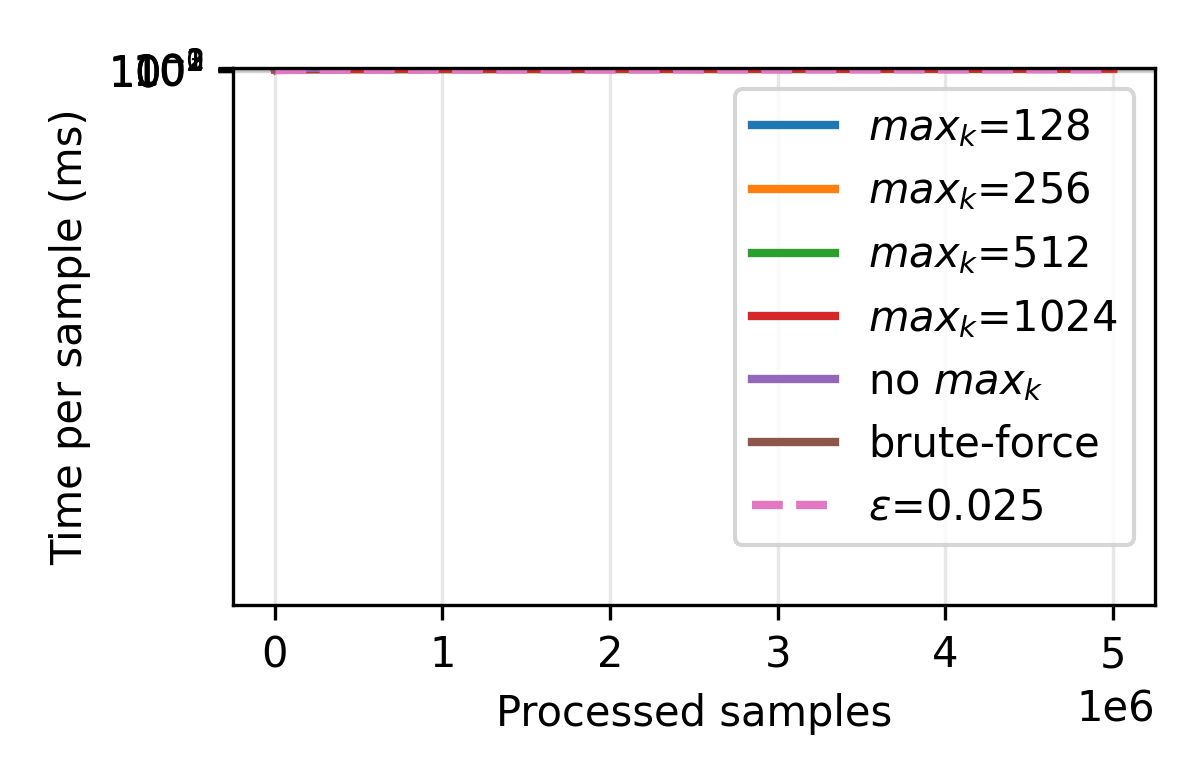
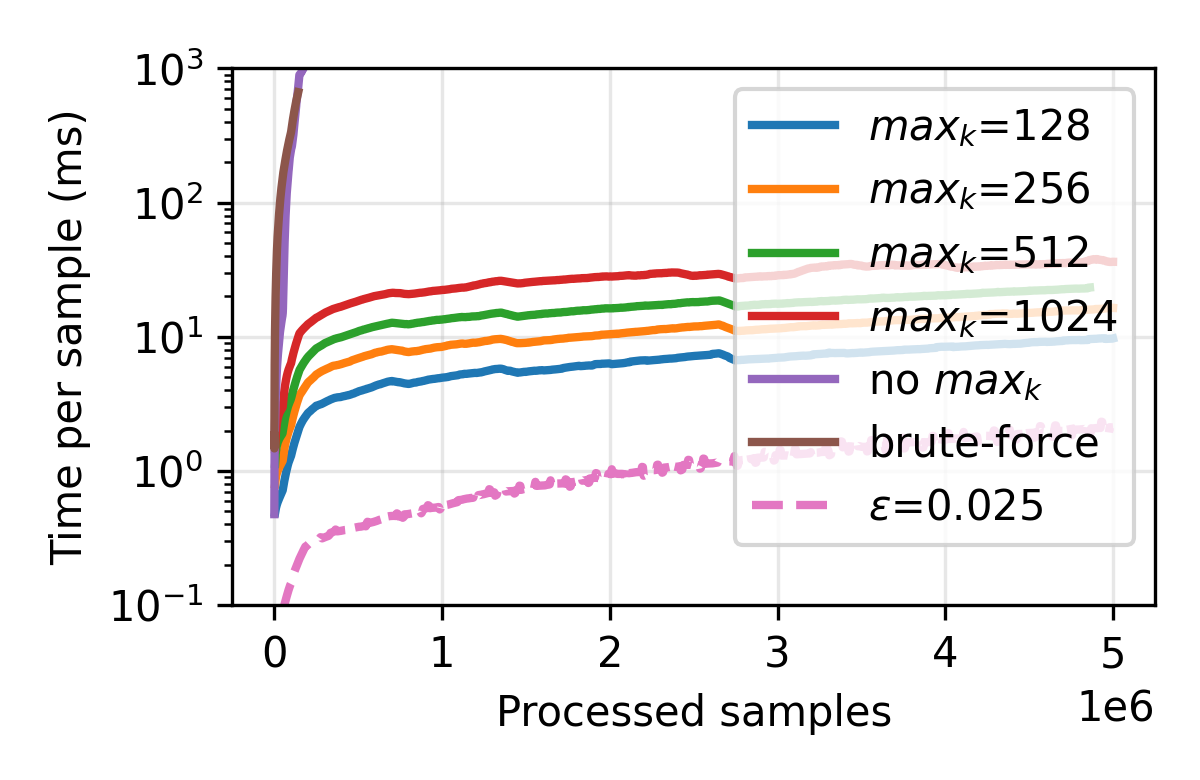
update perf plot

diff --git a/results/quantitative/plot_time_per_sample.py b/results/quantitative/plot_time_per_sample.py
@@ -234,7 +234,7 @@ def main() -> None:
         )
 
     lo, _ = ax.get_ylim()
-    ax.set_ylim(lo, 1e2)
+    ax.set_ylim(10e-2, 10e2)
     ax.set_yscale("log")
     ax.set_xlabel("Processed samples")
     ax.set_ylabel("Time per sample (ms)")
